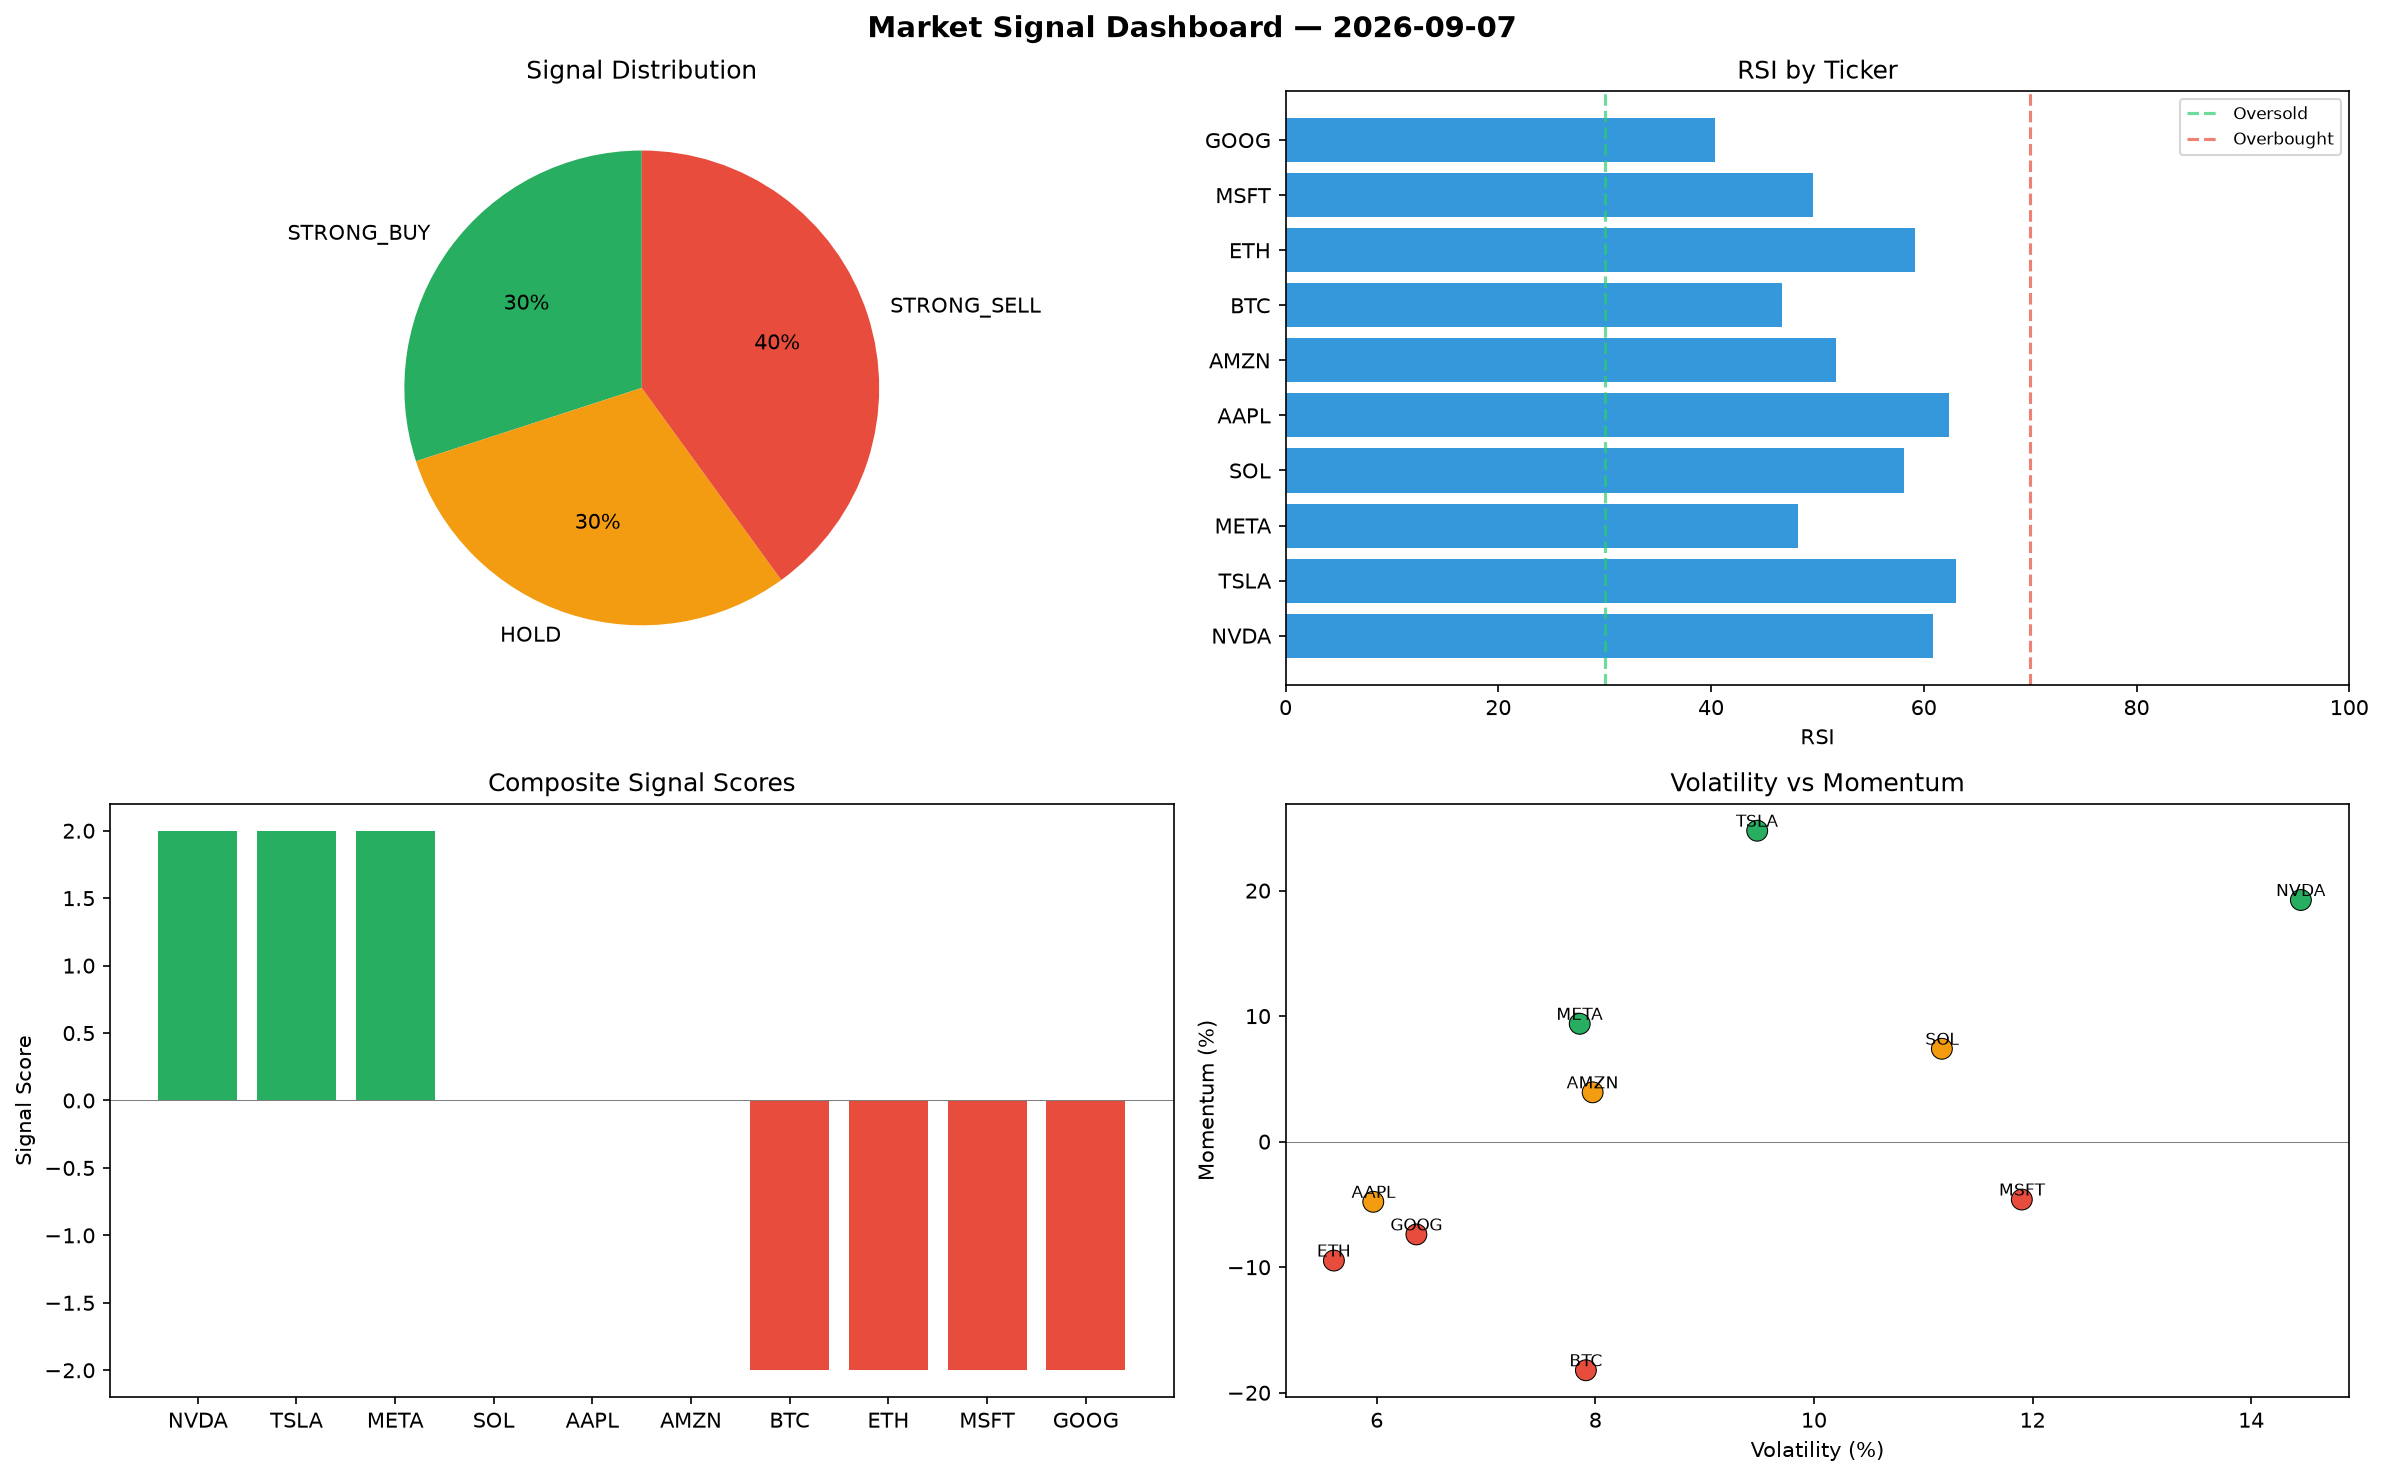
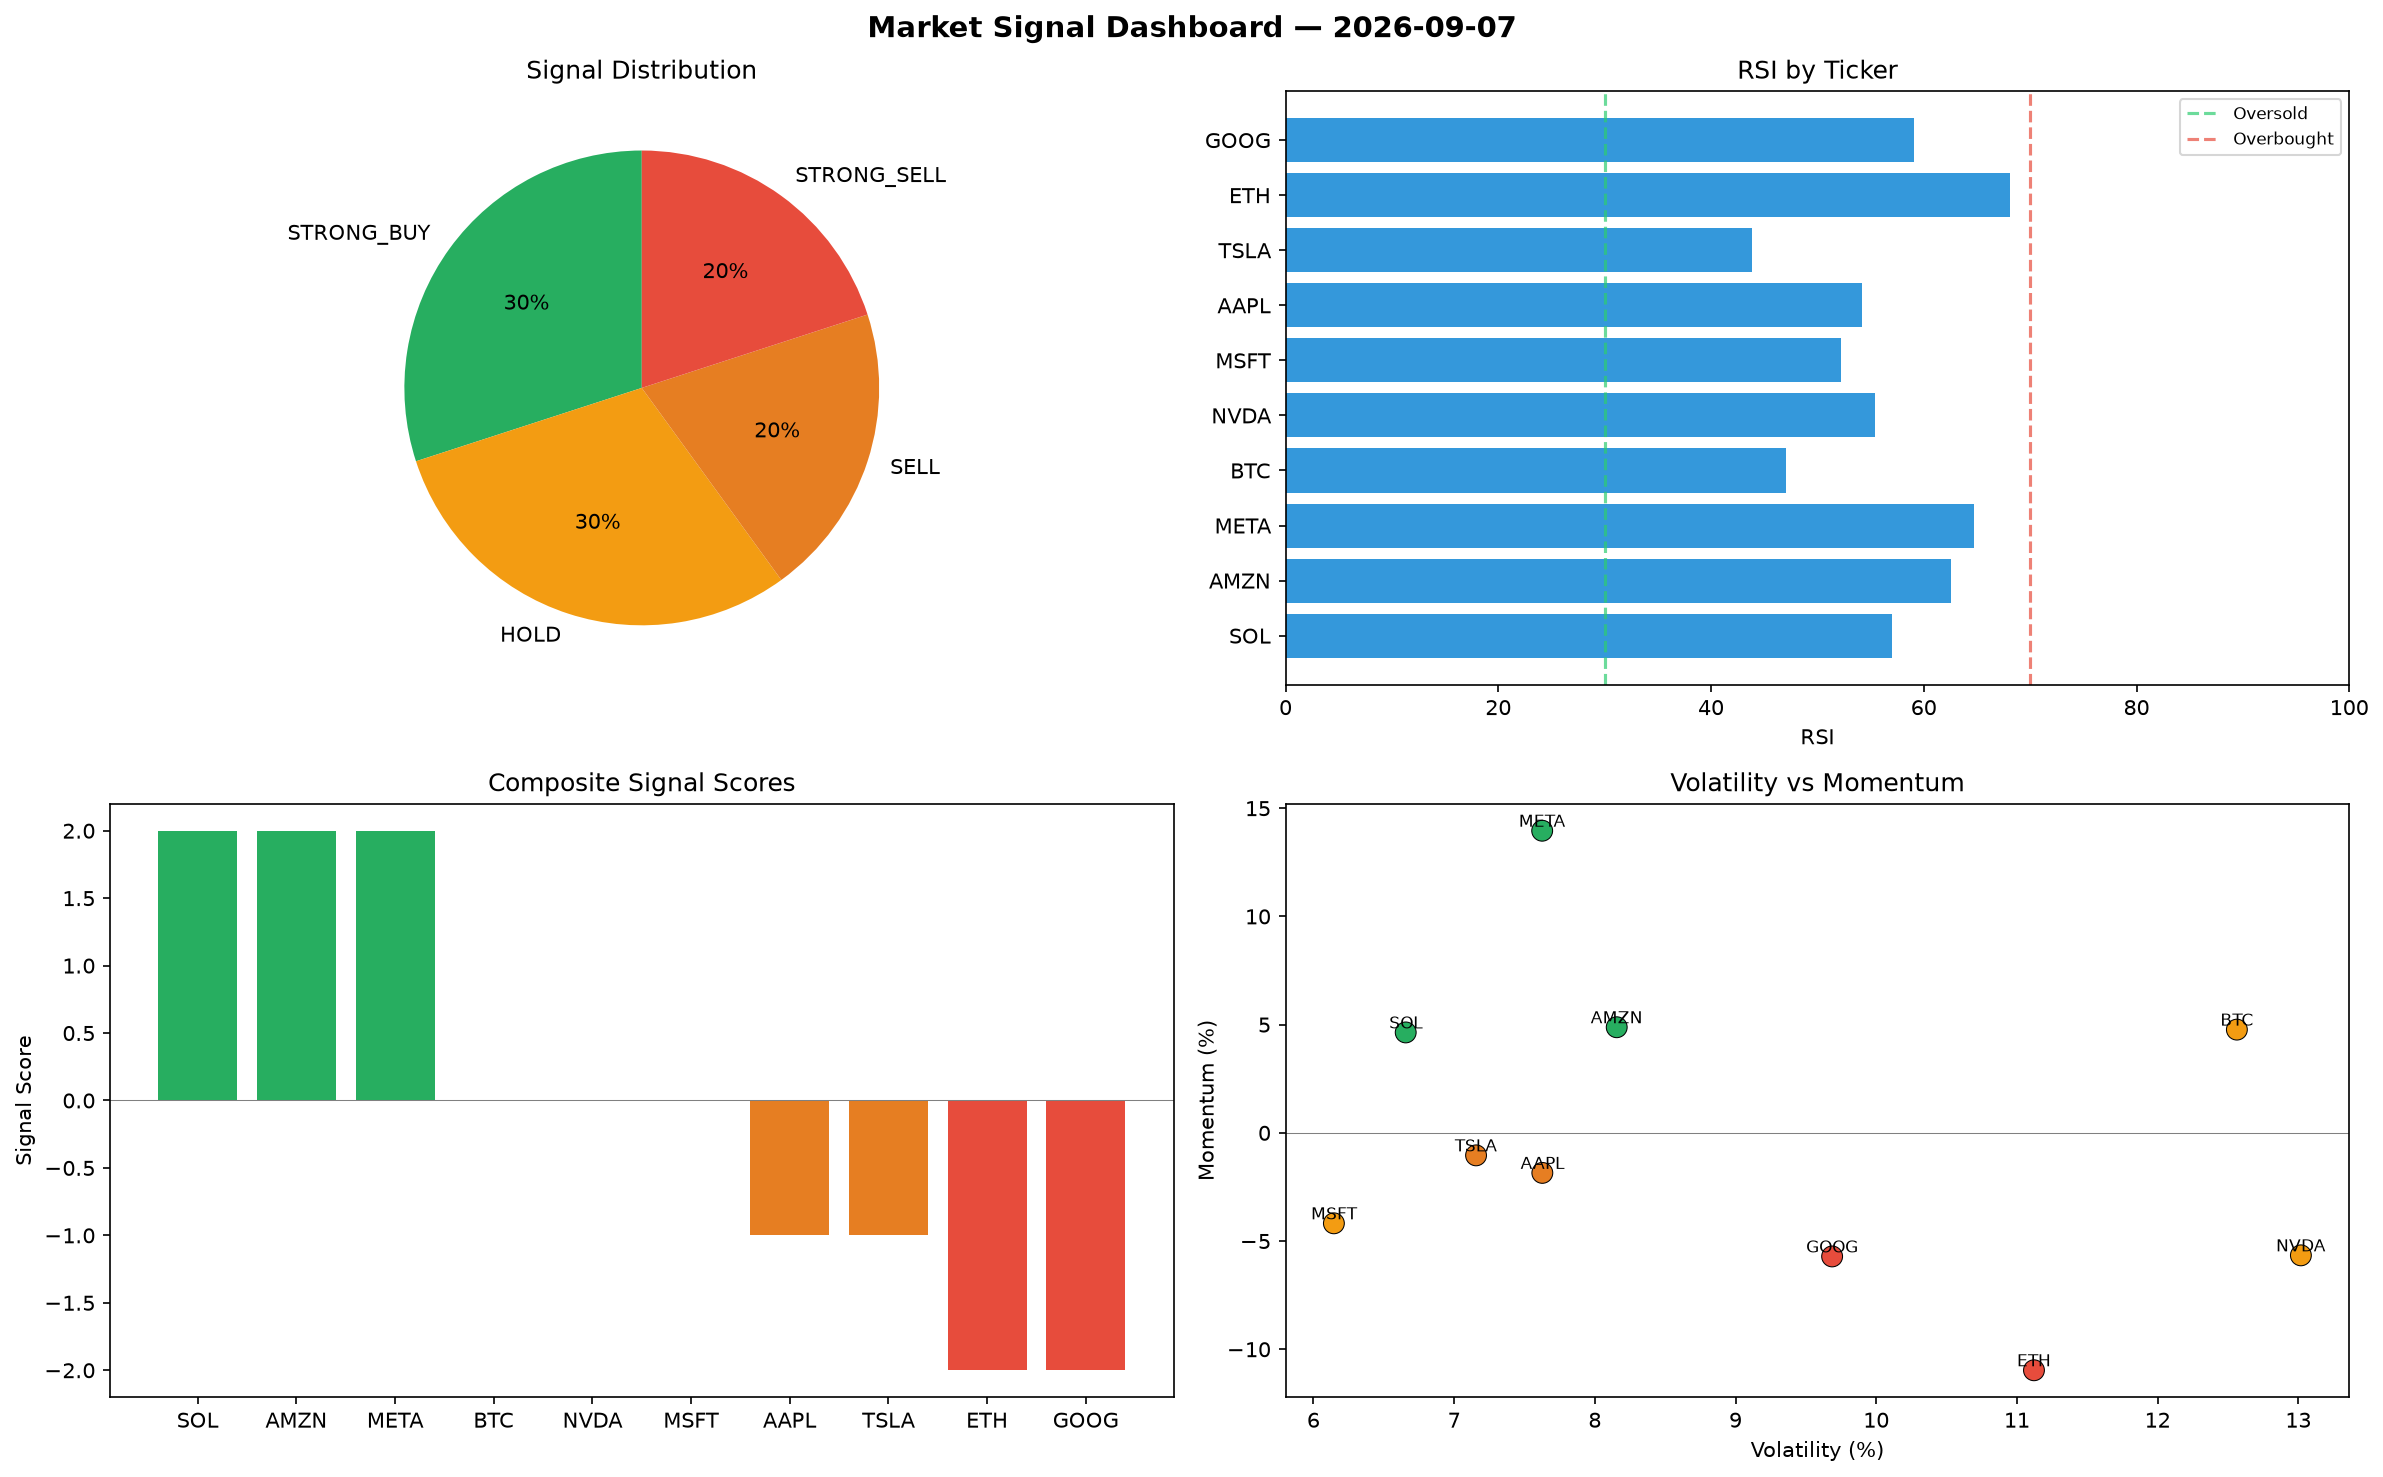
automated-bots: market signals 2026-09-07T14:20

diff --git a/logs/2026-09-07.md b/logs/2026-09-07.md
@@ -1,6 +1,6 @@
 # Market Signal Report — 2026-09-07
 
-**Run ID:** `759731cfc2` | **Buy:** 3 | **Sell:** 4 | **Hold:** 3
+**Run ID:** `86bf4125c5` | **Buy:** 3 | **Sell:** 4 | **Hold:** 3
 
 ![Dashboard](2026-09-07_dashboard.png)
 
@@ -8,28 +8,28 @@
 
 | Ticker | Price | Signal | Score | RSI | Momentum | Confidence |
 |--------|-------|--------|-------|-----|----------|------------|
-| NVDA | $1288.65 | **STRONG_BUY** | 2 | 60.84 | 0.1925 | 0.5 |
-| TSLA | $4982.38 | **STRONG_BUY** | 2 | 63.07 | 0.2477 | 0.5 |
-| META | $4334.85 | **STRONG_BUY** | 2 | 48.21 | 0.0939 | 0.5 |
-| SOL | $757.11 | **HOLD** | 0 | 58.1 | 0.074 | 0.0 |
-| AAPL | $204.73 | **HOLD** | 0 | 62.41 | -0.0479 | 0.0 |
-| AMZN | $4248.68 | **HOLD** | 0 | 51.76 | 0.0393 | 0.0 |
-| BTC | $3152.88 | **STRONG_SELL** | -2 | 46.67 | -0.1821 | 0.5 |
-| ETH | $4504.66 | **STRONG_SELL** | -2 | 59.21 | -0.0947 | 0.5 |
-| MSFT | $2104.26 | **STRONG_SELL** | -2 | 49.58 | -0.0461 | 0.5 |
-| GOOG | $2230.23 | **STRONG_SELL** | -2 | 40.37 | -0.0739 | 0.5 |
+| SOL | $239.08 | **STRONG_BUY** | 2 | 57.01 | 0.0464 | 0.5 |
+| AMZN | $3271.92 | **STRONG_BUY** | 2 | 62.53 | 0.0488 | 0.5 |
+| META | $3187.1 | **STRONG_BUY** | 2 | 64.72 | 0.1396 | 0.5 |
+| BTC | $1761.27 | **HOLD** | 0 | 47.02 | 0.0477 | 0.0 |
+| NVDA | $2551.12 | **HOLD** | 0 | 55.4 | -0.0566 | 0.0 |
+| MSFT | $926.03 | **HOLD** | 0 | 52.24 | -0.0418 | 0.0 |
+| AAPL | $247.26 | **SELL** | -1 | 54.2 | -0.0185 | 0.25 |
+| TSLA | $3478.42 | **SELL** | -1 | 43.86 | -0.0104 | 0.25 |
+| ETH | $4442.43 | **STRONG_SELL** | -2 | 68.06 | -0.1097 | 0.5 |
+| GOOG | $2280.88 | **STRONG_SELL** | -2 | 59.1 | -0.0571 | 0.5 |
 
 ## Delta vs Yesterday
 
 | Ticker | Today | Yesterday | Price Change | Signal Changed |
 |--------|-------|-----------|-------------|----------------|
-| NVDA | STRONG_BUY | BUY | 📉 -72.07% | ⚠ YES |
-| TSLA | STRONG_BUY | STRONG_BUY | 📈 152.04% | — |
-| META | STRONG_BUY | STRONG_BUY | 📉 -21.97% | — |
-| SOL | HOLD | HOLD | 📈 20.25% | — |
-| AAPL | HOLD | BUY | 📉 -88.83% | ⚠ YES |
-| AMZN | HOLD | HOLD | 📈 93.0% | — |
-| BTC | STRONG_SELL | HOLD | 📈 251.57% | ⚠ YES |
-| ETH | STRONG_SELL | STRONG_SELL | 📈 851.64% | — |
-| MSFT | STRONG_SELL | BUY | 📈 45.03% | ⚠ YES |
-| GOOG | STRONG_SELL | SELL | 📈 966.48% | ⚠ YES |
+| SOL | STRONG_BUY | HOLD | 📉 -62.03% | ⚠ YES |
+| AMZN | STRONG_BUY | HOLD | 📈 48.63% | ⚠ YES |
+| META | STRONG_BUY | STRONG_BUY | 📉 -42.63% | — |
+| BTC | HOLD | HOLD | 📈 96.4% | — |
+| NVDA | HOLD | BUY | 📉 -44.7% | ⚠ YES |
+| MSFT | HOLD | BUY | 📉 -36.18% | ⚠ YES |
+| AAPL | SELL | BUY | 📉 -86.51% | ⚠ YES |
+| TSLA | SELL | STRONG_BUY | 📈 75.96% | ⚠ YES |
+| ETH | STRONG_SELL | STRONG_SELL | 📈 838.49% | — |
+| GOOG | STRONG_SELL | SELL | 📈 990.7% | ⚠ YES |
